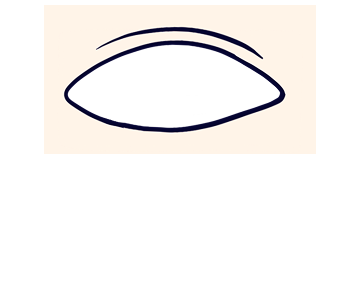
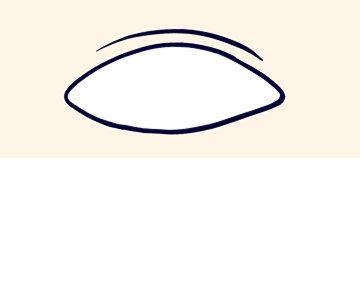
fixes illustration mobile

Changed region(s): [[0.1833, 0.0888, 0.7944, 0.4441]]

diff --git a/style.css b/style.css
@@ -372,21 +372,7 @@ body {
 }
 
 /* === OPTIONAL bottom dashed line (dummy header) === */
-.dummy-header::before {
-  content: "";
-  position: absolute;
-  bottom: 8px;
-  left: 0;
-  width: 100%;
-  height: 1px;
-  background-image: repeating-linear-gradient(
-    to right,
-    #6A0201 0,
-    #6A0201 10px,
-    transparent 10px,
-    transparent 20px
-  );
-}
+
 
 
 
@@ -1150,7 +1136,7 @@ body {
   }
 
   .illu-wrapper {
-    max-width: 50%;
+    max-width: 80%;
     margin: 3rem auto;
   }
 
@@ -1278,6 +1264,66 @@ body {
 
 
 }
+
+/* === iPad / Tablet Landscape Fix === */
+@media screen and (min-width: 768px) and (max-width: 1180px) and (orientation: landscape) {
+
+  /* make layout behave like mobile again */
+  .image-wrapper {
+    max-width: 50%;
+    margin: 60px auto;
+  }
+
+  .main-image {
+    width: 100%;
+    height: auto;
+    object-fit: cover;
+  }
+
+  .bg-shadow {
+    top: -20px;
+    left: 10px;
+  }
+
+  .timeline-section,
+  .text-section,
+  .scroll-text {
+    max-width: 90%;
+    margin: 0 auto;
+    padding-left: 1rem;
+    padding-right: 1rem;
+  }
+
+  .timeline-content {
+    padding: 20px 20px 80px 20px;
+  }
+
+  .illu-wrapper,
+  .press-illustration,
+  .eye-illustration {
+    max-width: 50%;
+    margin: 2rem auto;
+  }
+
+  .closing-text {
+    padding: 0 6rem 2rem;
+    line-height: 143%;
+    font-size: 1.2rem;
+    margin-bottom: 60px;
+}
+
+  .closing-parallax {
+    height: 90vh;
+  }
+
+
+  /* keep credits readable and centered */
+  .credits {
+    text-align: center;
+    margin: 60px auto 0;
+  }
+}
+
 
 /* === FINAL SECTION BLOCK (after timeline) === */
 .last-block {
